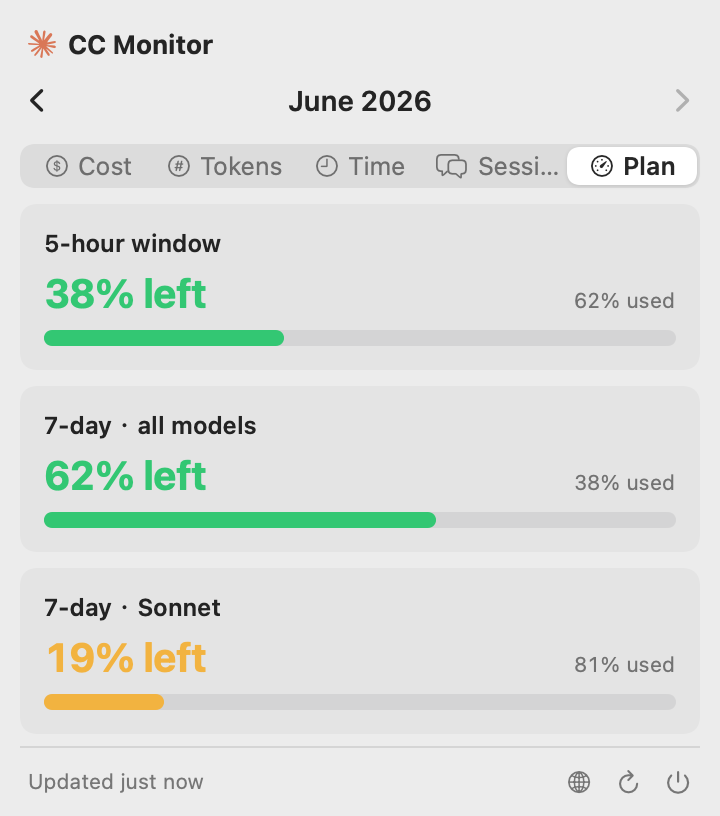
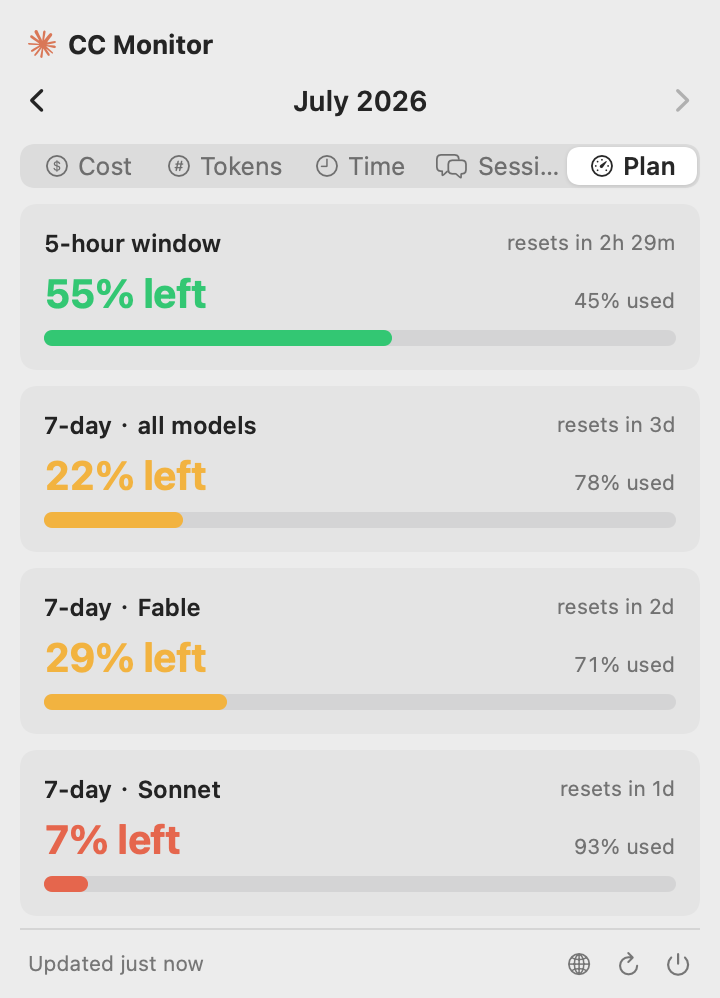
docs: regenerate plan.png with the Fable weekly cap + fix renderer
The Plan screenshot now shows the per-model weekly caps (7-day · Fable /
Sonnet) added in 3.1.0, with reset countdowns. Also fixes render_mockups.swift,
whose OAuthUsage(...) mock stopped compiling once `limits` was added to the
struct — the mock now builds a realistic `limits[]` (session / weekly_all /
scoped Fable / scoped Sonnet) via small scopedCap/resetIn helpers.

diff --git a/docs/render_mockups.swift b/docs/render_mockups.swift
@@ -168,6 +168,23 @@ func populateSessions(_ s: UsageStore) {
     s.sessionStore.anyDoneUnseen = true
 }
 
+// ISO-8601 string for a reset `hours` from now, so the Plan bars show live-looking
+// "resets in Xh/Xd" countdowns (SubWindowRow renders reset text only when non-nil).
+func resetIn(_ hours: Double) -> String {
+    let f = ISO8601DateFormatter()
+    f.formatOptions = [.withInternetDateTime]
+    return f.string(from: Date().addingTimeInterval(hours * 3600))
+}
+
+// One model-scoped weekly cap for the Plan tab's `limits[]` (the shape Anthropic
+// now delivers per-model caps in — e.g. the separate Fable weekly cap).
+func scopedCap(_ model: String, used: Double, resetHours: Double) -> OAuthUsageLimit {
+    OAuthUsageLimit(kind: "weekly_scoped", group: "weekly", percent: used,
+                    resets_at: resetIn(resetHours),
+                    scope: OAuthLimitScope(model: OAuthLimitModel(id: nil, display_name: model)),
+                    is_active: true)
+}
+
 @MainActor
 func makeStore(tab: DisplayTab, range: TimeRange = .week) -> UsageStore {
     let s = UsageStore()
@@ -191,10 +208,21 @@ func makeStore(tab: DisplayTab, range: TimeRange = .week) -> UsageStore {
     s.viewingTimeData = td
     s.yearTimeDays = year
     s.timeRange = range
+    // Modern subscription shape: model-scoped weekly caps arrive in `limits[]`
+    // (the flat seven_day_sonnet is null now). Shows a Fable + Sonnet weekly cap
+    // alongside the 5h / 7d windows — green / amber / coral across the four bars.
     s.subscriptionQuota = OAuthUsage(
-        five_hour: OAuthUsageWindow(utilization: 62, resets_at: nil),
-        seven_day: OAuthUsageWindow(utilization: 38, resets_at: nil),
-        extra_usage: nil, seven_day_sonnet: OAuthUsageWindow(utilization: 81, resets_at: nil))
+        five_hour: OAuthUsageWindow(utilization: 45, resets_at: resetIn(2.5)),
+        seven_day: OAuthUsageWindow(utilization: 78, resets_at: resetIn(96)),
+        extra_usage: nil, seven_day_sonnet: nil,
+        limits: OAuthLimitList(items: [
+            OAuthUsageLimit(kind: "session", group: "session", percent: 45,
+                            resets_at: resetIn(2.5), scope: nil, is_active: false),
+            OAuthUsageLimit(kind: "weekly_all", group: "weekly", percent: 78,
+                            resets_at: resetIn(96), scope: nil, is_active: false),
+            scopedCap("Fable", used: 71, resetHours: 50),
+            scopedCap("Sonnet", used: 93, resetHours: 46),
+        ]))
     populateSessions(s)
     return s
 }
